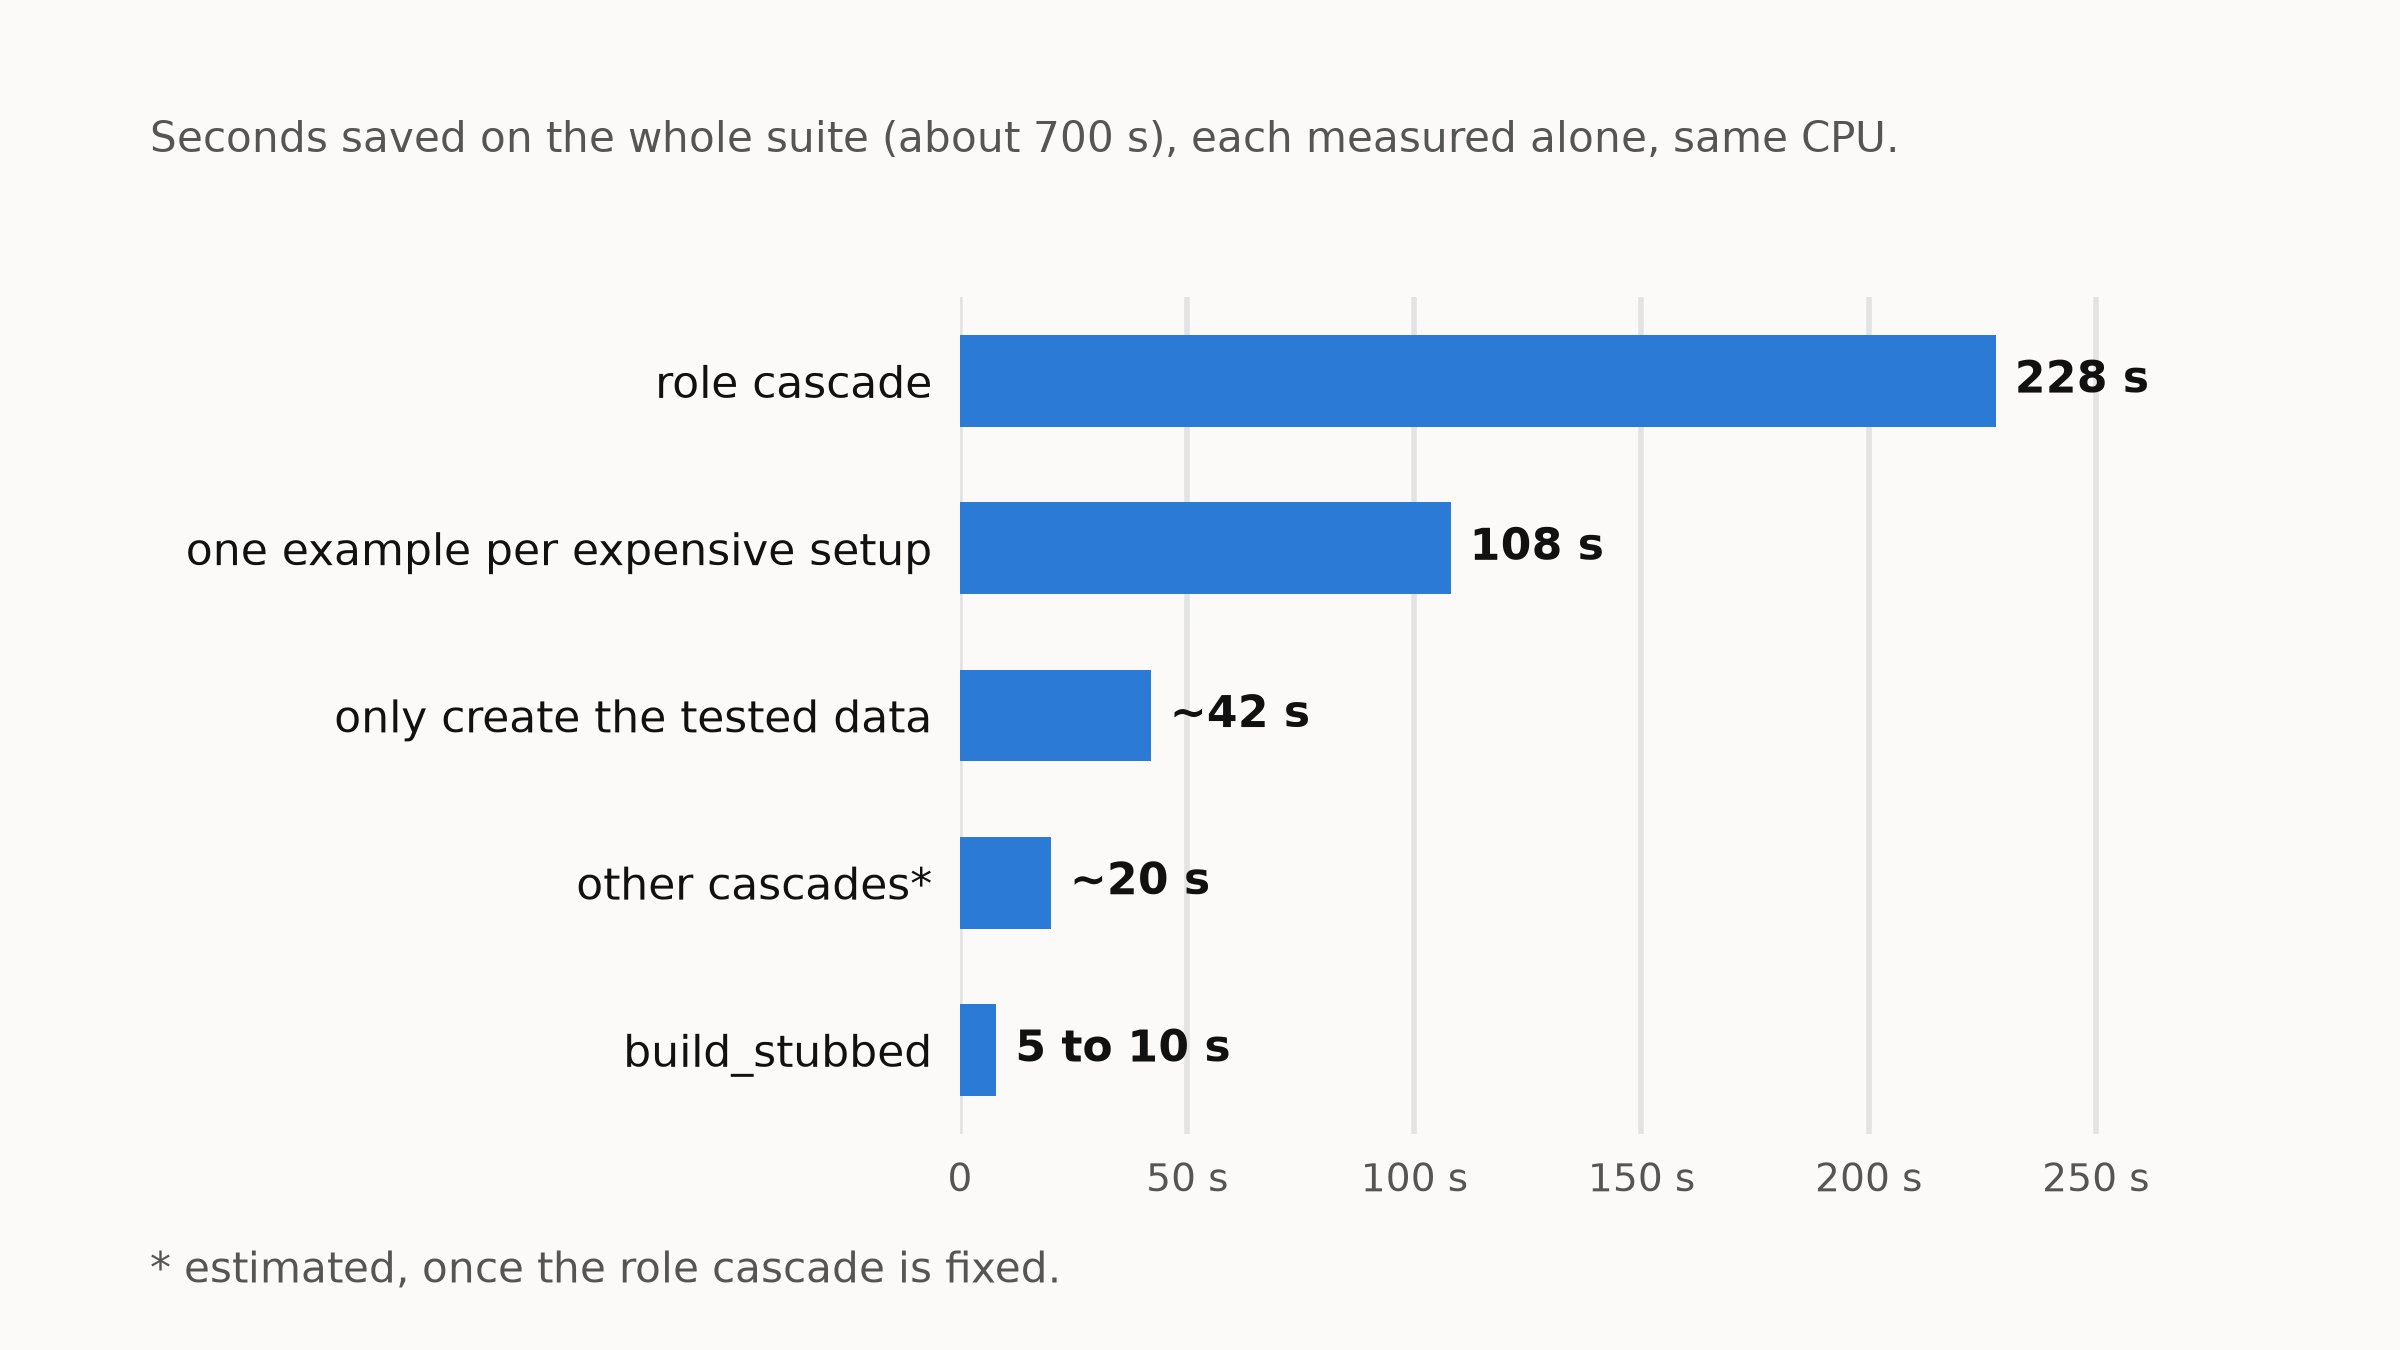
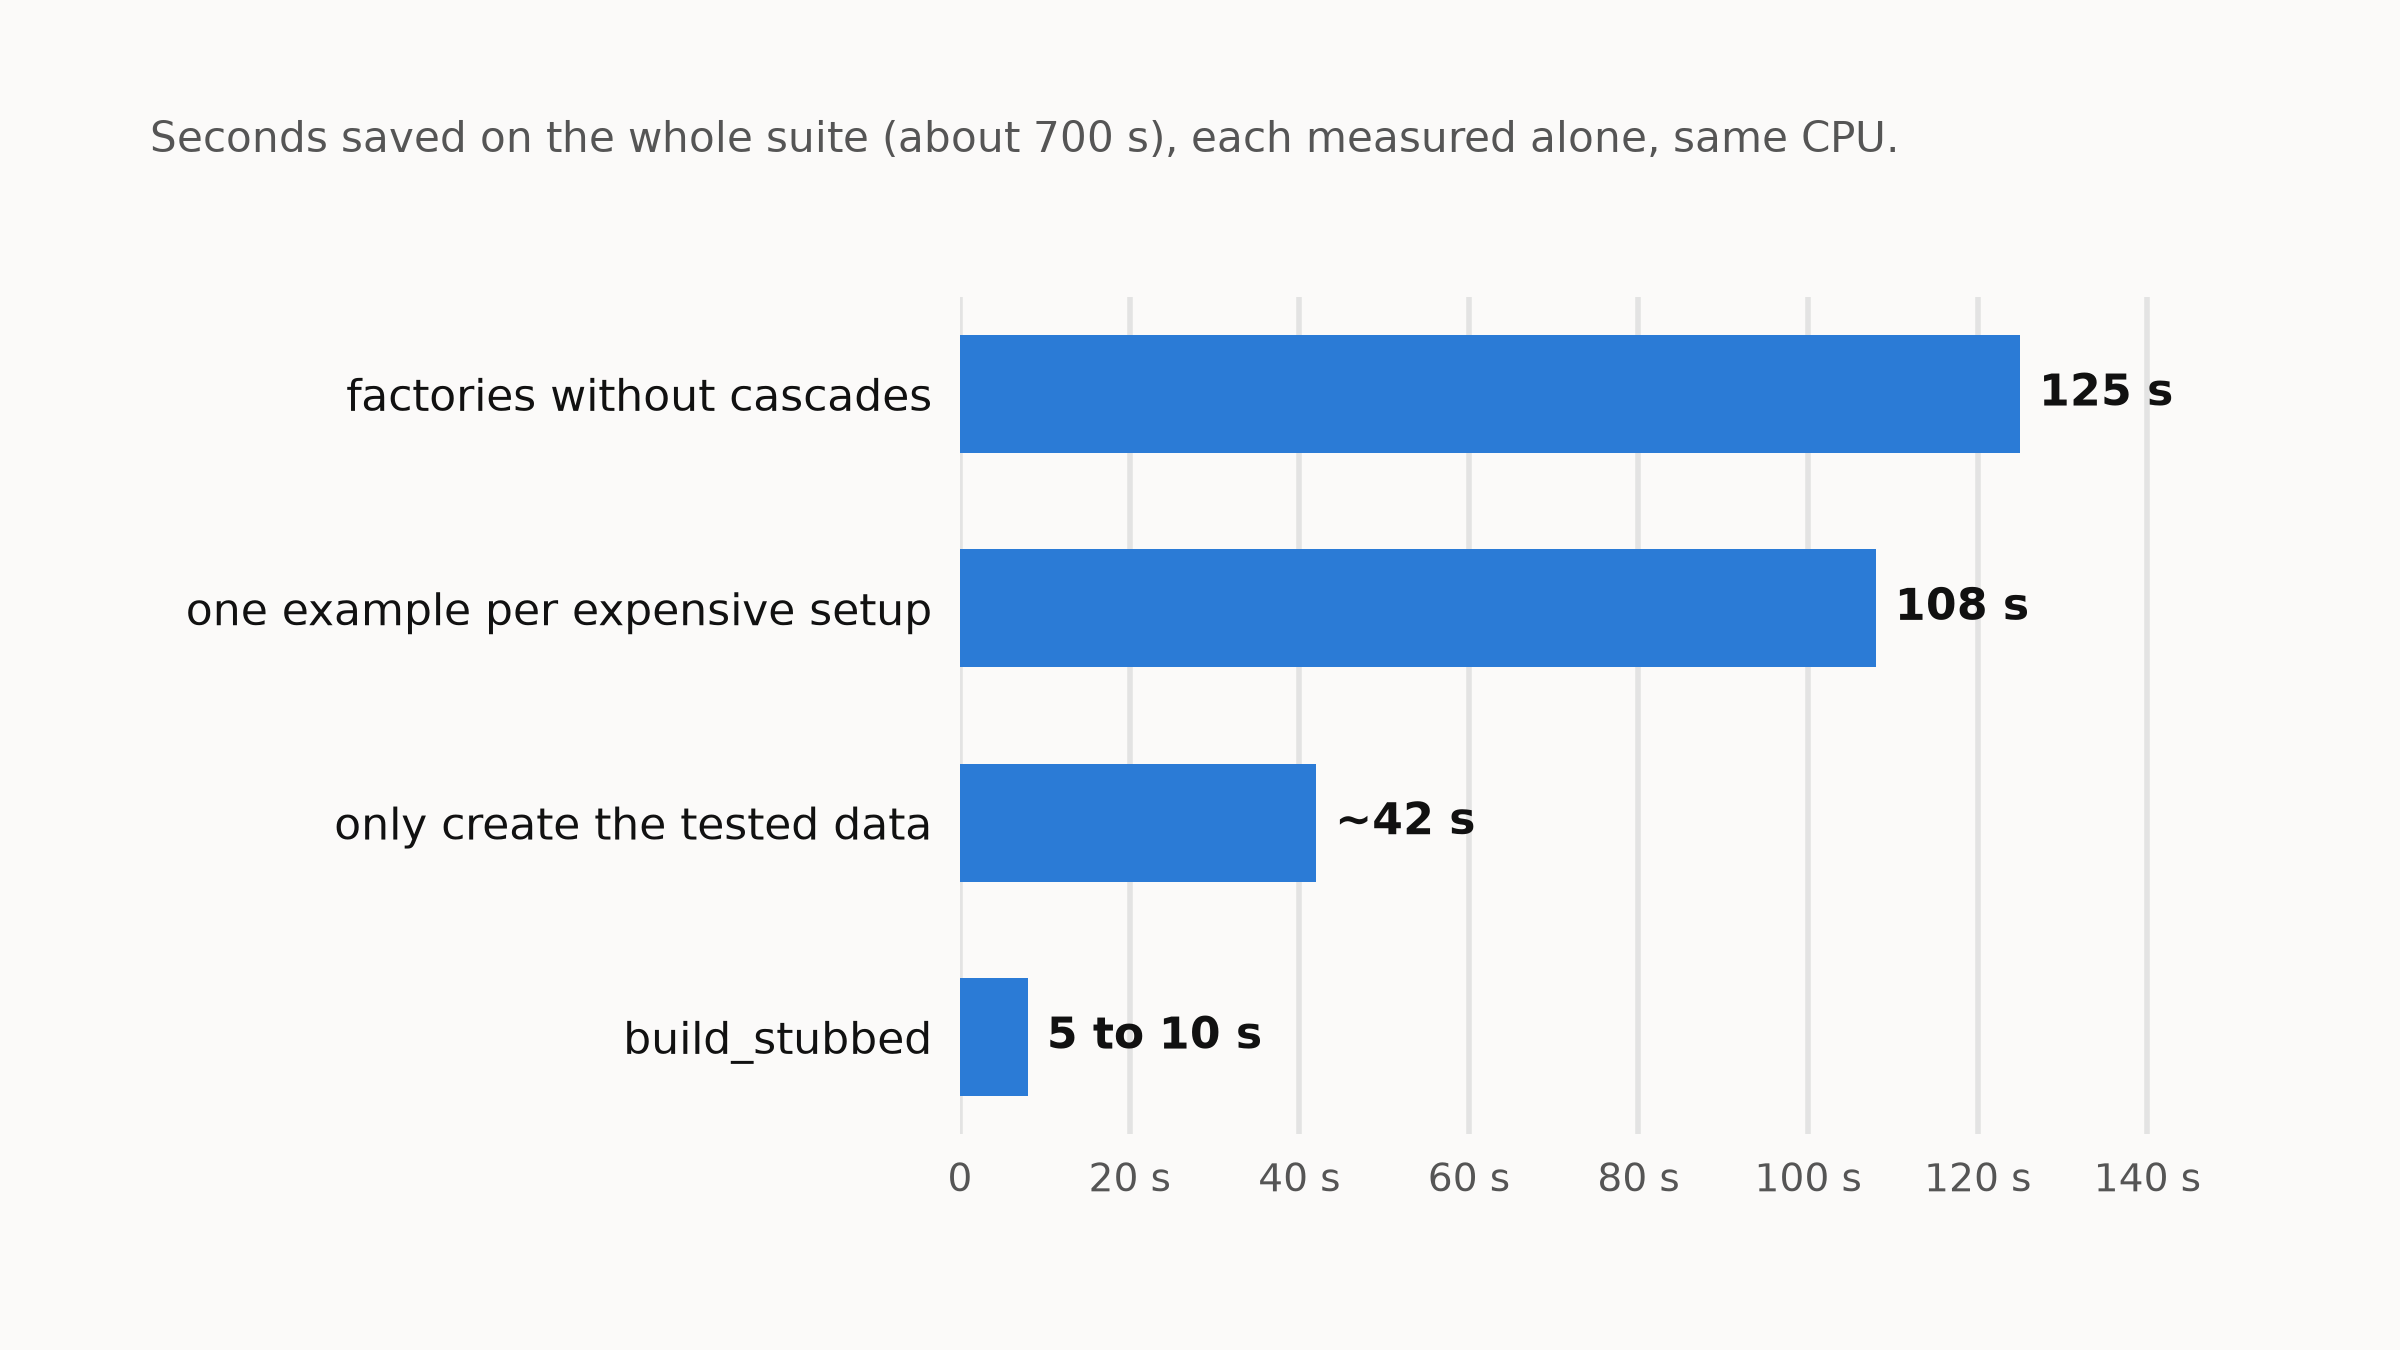
blog: Alléger les specs RSpec, sans l'histoire des rôles

diff --git a/content/blog/alleger-les-specs-rspec/fr.md b/content/blog/alleger-les-specs-rspec/fr.md
@@ -83,23 +83,11 @@ end
 factory :user do
   transient do
     accounts { [build(:account)] }   # …avec un autre compte, et un autre mailing_account
-    account_role_key { 'client_edit' }
-  end
-
-  after(:create) do |user, evaluator|
-    evaluator.accounts.each do |account|
-      account.save!
-      role = Role.find_by(key: evaluator.account_role_key) || begin
-        Rbac::SyncCatalog.call       # recrée tous les rôles de l'app
-        Role.find_by!(key: evaluator.account_role_key)
-      end
-      user.user_roles.create!(role:, roleable: account)
-    end
   end
 end
 ```
 
-Un questionnaire créé dans un spec, c'était donc aussi deux comptes, deux `mailing_account`, un owner et son rôle, même quand le spec ne regardait que le questionnaire. Un défaut de factory se paie dans chaque spec qui utilise la factory, et dans chaque factory qui l'associe : 5 540 `mailing_account` étaient créés, pour 18 lus.
+Un questionnaire créé dans un spec, c'était donc aussi deux comptes, deux `mailing_account` et un owner, même quand le spec ne regardait que le questionnaire. Un défaut de factory se paie dans chaque spec qui utilise la factory, et dans chaque factory qui l'associe : 5 540 `mailing_account` étaient créés, pour 18 lus.
 
 La correction : l'owner n'a plus de compte, le `mailing_account` devient un trait qu'on demande, et les enregistrements enfants réutilisent le questionnaire de leur parent au lieu d'en créer un autre.
 
@@ -120,15 +108,7 @@ Créer un questionnaire passe de 48 à 9 ms, et la suite en crée plus de 4 000 
 
 ![Temps moyen pour créer un questionnaire et un user, avec et sans cascades](cascades-fr.png "Mesuré par FactoryProf sur toute la suite.")
 
-Sur toute la suite, ça fait 38 134 enregistrements créés au lieu de 44 135, et la suite passe de 699 à 574 s (−18 %). La pire cascade était cachée : pour donner un rôle à l'owner, la factory recréait tous les rôles de l'app, et ça à chaque exemple. C'est l'essentiel de ces 48 ms. Les créer une seule fois avant la suite fait à lui seul passer la suite de 714 à 486 s :
-
-```ruby
-RSpec.configure do |config|
-  config.before(:suite) { Rbac::SyncCatalog.call }
-end
-```
-
-Une fois les rôles créés avant la suite, les autres cascades ne pèsent plus qu'une vingtaine de secondes.
+Sur toute la suite, ça fait 38 134 enregistrements créés au lieu de 44 135, et la suite passe de 699 à 574 s (−18 %).
 
 Le même défaut restait sur les users staff : la factory donnait un compte à chaque user, même aux admins, qui n'en ont pas en production (leur accès vient de leur type). Ce compte coûtait plus que tout ce que `build_stubbed` faisait gagner :
 

diff --git a/content/blog/alleger-les-specs-rspec/en.md b/content/blog/alleger-les-specs-rspec/en.md
@@ -83,23 +83,11 @@ end
 factory :user do
   transient do
     accounts { [build(:account)] }   # …with another account, and another mailing_account
-    account_role_key { 'client_edit' }
-  end
-
-  after(:create) do |user, evaluator|
-    evaluator.accounts.each do |account|
-      account.save!
-      role = Role.find_by(key: evaluator.account_role_key) || begin
-        Rbac::SyncCatalog.call       # recreates all the app's roles
-        Role.find_by!(key: evaluator.account_role_key)
-      end
-      user.user_roles.create!(role:, roleable: account)
-    end
   end
 end
 ```
 
-So a survey created in a spec also meant two accounts, two `mailing_account`s, an owner and its role, even when the spec only looked at the survey. A factory default is paid for in every spec that uses the factory, and in every factory that associates it: 5,540 `mailing_account`s were created, for 18 read.
+So a survey created in a spec also meant two accounts, two `mailing_account`s and an owner, even when the spec only looked at the survey. A factory default is paid for in every spec that uses the factory, and in every factory that associates it: 5,540 `mailing_account`s were created, for 18 read.
 
 The fix: the owner no longer has an account, `mailing_account` becomes a trait you ask for, and child records reuse their parent's survey instead of creating another one.
 
@@ -120,15 +108,7 @@ Creating a survey goes from 48 to 9 ms, and the suite creates more than 4,000 of
 
 ![Average time to create a survey and a user, with and without cascades](cascades-en.png "Measured by FactoryProf over the whole suite.")
 
-Over the whole suite, that's 38,134 records created instead of 44,135, and the suite goes from 699 to 574 s (−18%). The worst cascade was hidden: to give the owner a role, the factory recreated all the app's roles, for every example. That's most of those 48 ms. Creating them once before the suite takes the suite from 714 to 486 s on its own:
-
-```ruby
-RSpec.configure do |config|
-  config.before(:suite) { Rbac::SyncCatalog.call }
-end
-```
-
-Once the roles are created before the suite, the other cascades only weigh about twenty seconds.
+Over the whole suite, that's 38,134 records created instead of 44,135, and the suite goes from 699 to 574 s (−18%).
 
 The same default remained on staff users: the factory gave every user an account, even admins, who have none in production (their access comes from their type). That account cost more than everything `build_stubbed` saved:
 
